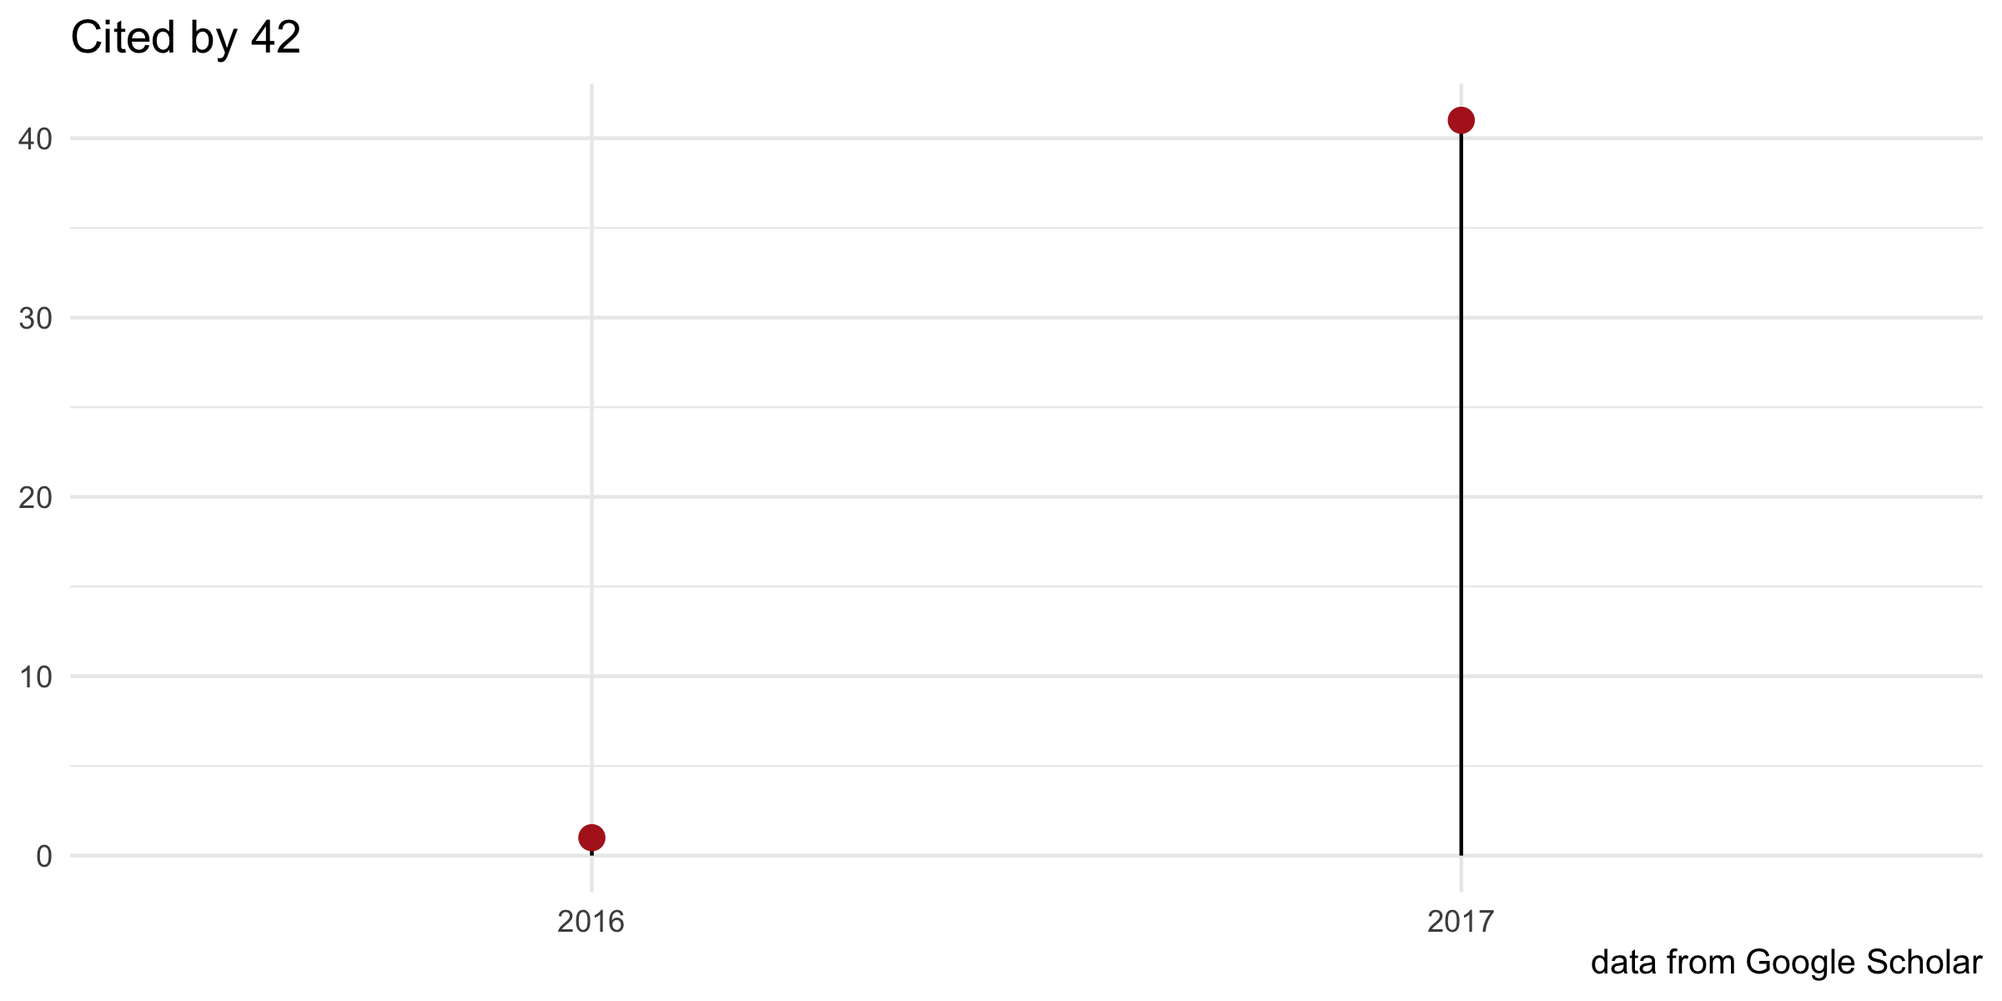
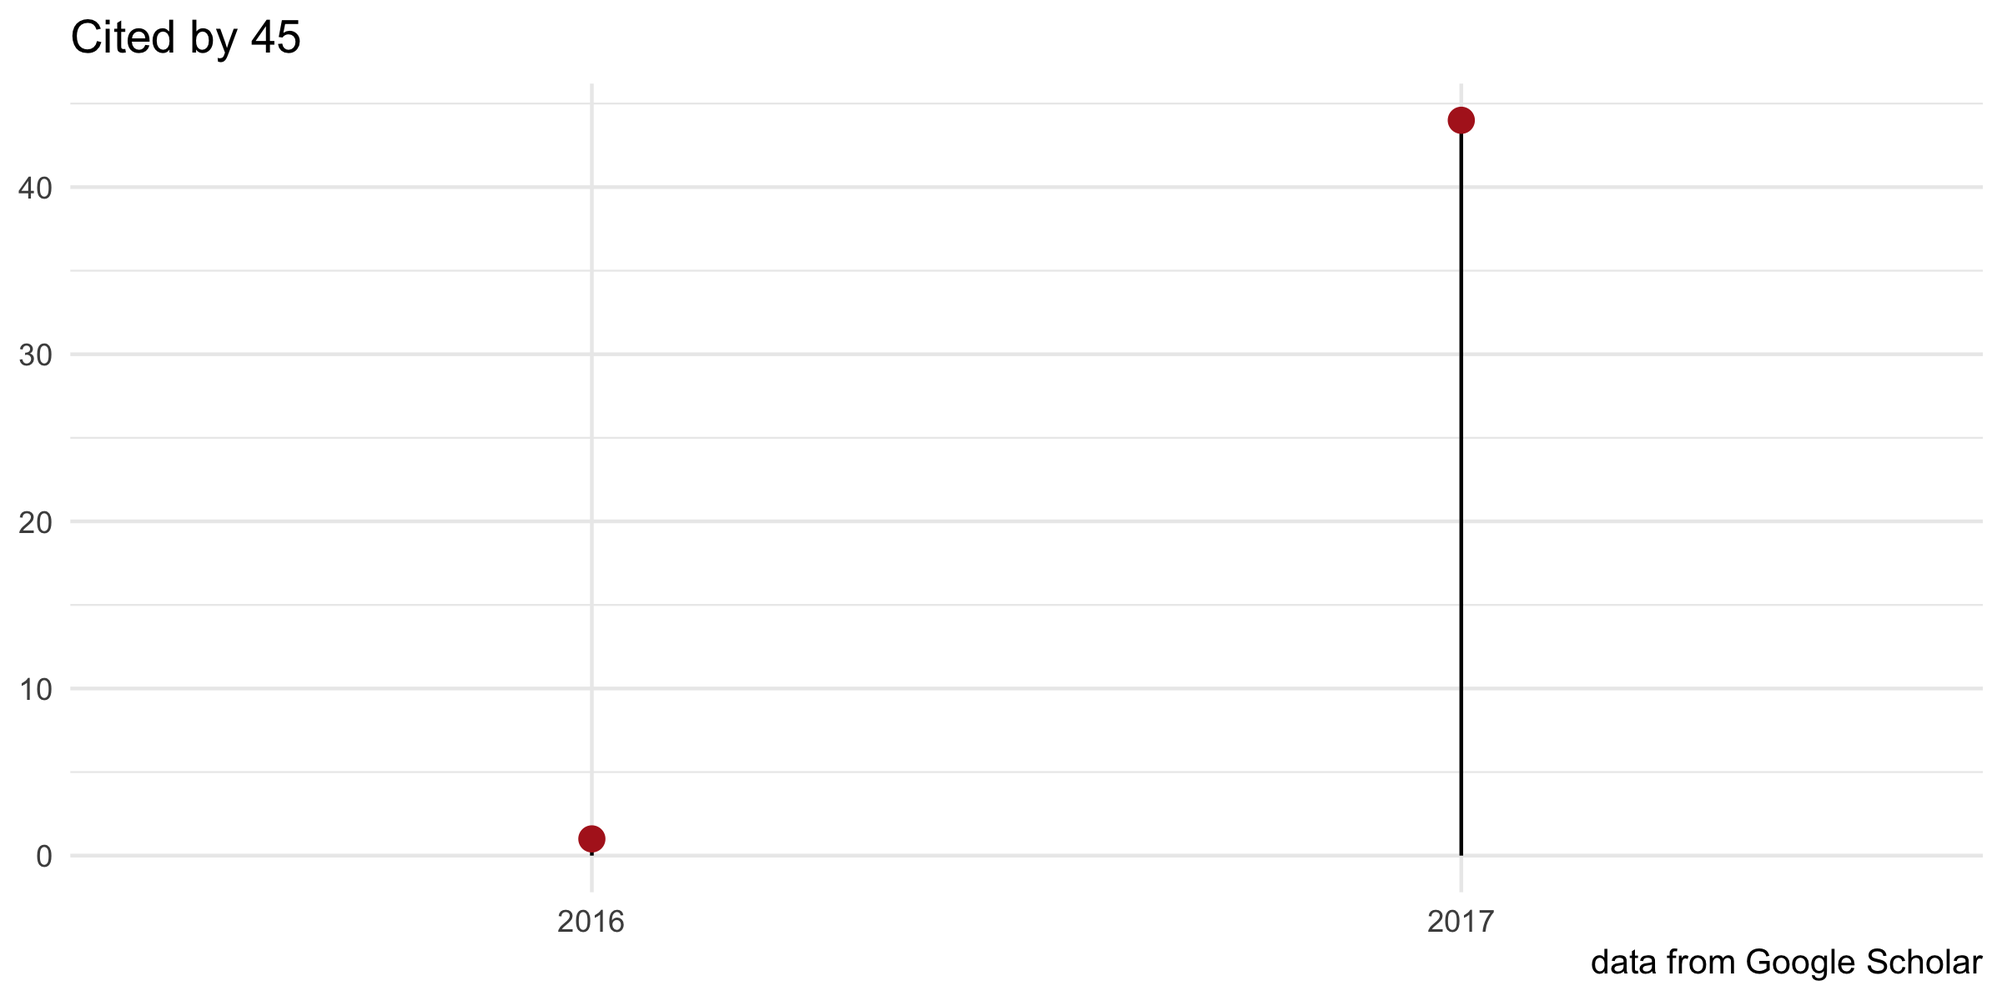
update docs

diff --git a/site_src/content/tweets/index.html b/site_src/content/tweets/index.html
@@ -8,4 +8,4 @@ weight: 50
 
 <p><link rel="stylesheet" href="https://guangchuangyu.github.io/css/font-awesome.min.css"></p>
 <p><font size="4"><strong>Leave me a message on <a href="https://twitter.com/hashtag/ggtree"><i class="fa fa-twitter fa-lg"></i></a></strong></font></p>
-<p>{{% tweet 920370392451178496 %}}{{% tweet 912971120198012929 %}}{{% tweet 907543915686793217 %}}{{% tweet 910671384069722112 %}}{{% tweet 903786057182957568 %}}{{% tweet 899635001247059969 %}}{{% tweet 898729425168080897 %}}{{% tweet 891144389715783680 %}}{{% tweet 883301626022375424 %}}{{% tweet 883246854695256064 %}}{{% tweet 877576023109390336 %}}{{% tweet 875594411584782337 %}}{{% tweet 871775262152810496 %}}{{% tweet 867408666852511744 %}}{{% tweet 857665638600507393 %}}{{% tweet 840181267542994944 %}}{{% tweet 839831849736232962 %}}{{% tweet 830023569887391744 %}}{{% tweet 829398997735313408 %}}{{% tweet 824264788456984576 %}}{{% tweet 822383911258890242 %}}{{% tweet 811666431452450816 %}}{{% tweet 811661275889549312 %}}{{% tweet 797041236867686400 %}}{{% tweet 797037016403820546 %}}{{% tweet 794278716859879424 %}}{{% tweet 831952966701678592 %}}{{% tweet 788751417746059264 %}}{{% tweet 693123105707986944 %}}{{% tweet 691762302492790788 %}}{{% tweet 687933344219312128 %}}{{% tweet 684411780412526592 %}}{{% tweet 665188011047563268 %}}{{% tweet 664040586001915904 %}}{{% tweet 639507420054749184 %}}{{% tweet 671673570259509248 %}}{{% tweet 667490462693912576 %}}{{% tweet 660278158663401473 %}}{{% tweet 641251456595685376 %}}{{% tweet 559734740488818688 %}}{{% tweet 559762891478667264 %}}{{% tweet 561514846291001344 %}}{{% tweet 559542705663905793 %}}{{% tweet 561056244782227456 %}}{{% tweet 664085841766195200 %}}{{% tweet 664431087683260416 %}}{{% tweet 667706456045694976 %}}{{% tweet 663937183791759360 %}}{{% tweet 663771499589861376 %}}{{% tweet 667433534756397057 %}}{{% tweet 640573716733169664 %}}{{% tweet 664407764001779712 %}}{{% tweet 630500659960254464 %}}{{% tweet 547497335412899840 %}}{{% tweet 610364467939913728 %}}</p>
+<p>{{% tweet "920370392451178496" %}}{{% tweet "912971120198012929" %}}{{% tweet "907543915686793217" %}}{{% tweet "910671384069722112" %}}{{% tweet "903786057182957568" %}}{{% tweet "899635001247059969" %}}{{% tweet "898729425168080897" %}}{{% tweet "891144389715783680" %}}{{% tweet "883301626022375424" %}}{{% tweet "883246854695256064" %}}{{% tweet "877576023109390336" %}}{{% tweet "875594411584782337" %}}{{% tweet "871775262152810496" %}}{{% tweet "867408666852511744" %}}{{% tweet "857665638600507393" %}}{{% tweet "840181267542994944" %}}{{% tweet "839831849736232962" %}}{{% tweet "830023569887391744" %}}{{% tweet "829398997735313408" %}}{{% tweet "824264788456984576" %}}{{% tweet "822383911258890242" %}}{{% tweet "811666431452450816" %}}{{% tweet "811661275889549312" %}}{{% tweet "797041236867686400" %}}{{% tweet "797037016403820546" %}}{{% tweet "794278716859879424" %}}{{% tweet "831952966701678592" %}}{{% tweet "788751417746059264" %}}{{% tweet "693123105707986944" %}}{{% tweet "691762302492790788" %}}{{% tweet "687933344219312128" %}}{{% tweet "684411780412526592" %}}{{% tweet "665188011047563268" %}}{{% tweet "664040586001915904" %}}{{% tweet "639507420054749184" %}}{{% tweet "671673570259509248" %}}{{% tweet "667490462693912576" %}}{{% tweet "660278158663401473" %}}{{% tweet "641251456595685376" %}}{{% tweet "559734740488818688" %}}{{% tweet "559762891478667264" %}}{{% tweet "561514846291001344" %}}{{% tweet "559542705663905793" %}}{{% tweet "561056244782227456" %}}{{% tweet "664085841766195200" %}}{{% tweet "664431087683260416" %}}{{% tweet "667706456045694976" %}}{{% tweet "663937183791759360" %}}{{% tweet "663771499589861376" %}}{{% tweet "667433534756397057" %}}{{% tweet "640573716733169664" %}}{{% tweet "664407764001779712" %}}{{% tweet "630500659960254464" %}}{{% tweet "547497335412899840" %}}{{% tweet "610364467939913728" %}}</p>

diff --git a/site_src/content/index.html b/site_src/content/index.html
@@ -9,7 +9,7 @@ weight: 1
 
 <p><link rel="stylesheet" href="https://guangchuangyu.github.io/css/font-awesome.min.css"> <link rel="stylesheet" href="https://guangchuangyu.github.io/css/academicons.min.css"></p>
 <p><img src="https://raw.githubusercontent.com/Bioconductor/BiocStickers/master/ggtree/ggtree.png" height="200" align="right" /></p>
-<p><a href="https://bioconductor.org/packages/ggtree"><img src="https://img.shields.io/badge/release%20version-1.10.0-blue.svg?style=flat" alt="releaseVersion" /></a> <a href="https://github.com/guangchuangyu/ggtree"><img src="https://img.shields.io/badge/devel%20version-1.9.4-blue.svg?style=flat" alt="develVersion" /></a> <a href="https://bioconductor.org/packages/stats/bioc/ggtree"><img src="https://img.shields.io/badge/downloads-20560/total-blue.svg?style=flat" alt="total" /></a> <a href="https://bioconductor.org/packages/stats/bioc/ggtree"><img src="https://img.shields.io/badge/downloads-986/month-blue.svg?style=flat" alt="month" /></a></p>
+<p><a href="https://bioconductor.org/packages/ggtree"><img src="https://img.shields.io/badge/release%20version-1.10.0-blue.svg?style=flat" alt="releaseVersion" /></a> <a href="https://github.com/guangchuangyu/ggtree"><img src="https://img.shields.io/badge/devel%20version-1.11.0-blue.svg?style=flat" alt="develVersion" /></a> <a href="https://bioconductor.org/packages/stats/bioc/ggtree"><img src="https://img.shields.io/badge/downloads-20978/total-blue.svg?style=flat" alt="total" /></a> <a href="https://bioconductor.org/packages/stats/bioc/ggtree"><img src="https://img.shields.io/badge/downloads-1156/month-blue.svg?style=flat" alt="month" /></a></p>
 <p>The <code>ggtree</code> package extending the <em>ggplot2</em> package. It based on grammar of graphics and takes all the good parts of <em>ggplot2</em>. <em>ggtree</em> is designed for not only viewing phylogenetic tree but also displaying annotation data on the tree. <em>ggtree</em> is released within the <a href="https://bioconductor.org/packages/ggtree/">Bioconductor</a> project and the source code is hosted on <a href="https://github.com/GuangchuangYu/ggtree"><i class="fa fa-github fa-lg"></i> GitHub</a>.</p>
 <div id="authors" class="section level2">
 <h2><i class="fa fa-user"></i> Authors</h2>
@@ -18,7 +18,7 @@ weight: 1
 <div id="citation" class="section level2">
 <h2><i class="fa fa-book"></i> Citation</h2>
 <p>Please cite the following article when using <code>ggtree</code>:</p>
-<p><a href="http://dx.doi.org/10.1111/2041-210X.12628"><img src="https://img.shields.io/badge/doi-10.1111/2041--210X.12628-blue.svg?style=flat" alt="doi" /></a> <a href="https://www.altmetric.com/details/10533079"><img src="https://img.shields.io/badge/Altmetric-338-blue.svg?style=flat" alt="Altmetric" /></a> <a href="https://scholar.google.com.hk/scholar?oi=bibs&amp;hl=en&amp;cites=7268358477862164627"><img src="https://img.shields.io/badge/cited%20by-42-blue.svg?style=flat" alt="citation" /></a></p>
+<p><a href="http://dx.doi.org/10.1111/2041-210X.12628"><img src="https://img.shields.io/badge/doi-10.1111/2041--210X.12628-blue.svg?style=flat" alt="doi" /></a> <a href="https://www.altmetric.com/details/10533079"><img src="https://img.shields.io/badge/Altmetric-337-blue.svg?style=flat" alt="Altmetric" /></a> <a href="https://scholar.google.com.hk/scholar?oi=bibs&amp;hl=en&amp;cites=7268358477862164627"><img src="https://img.shields.io/badge/cited%20by-45-blue.svg?style=flat" alt="citation" /></a></p>
 <p><strong>G Yu</strong>, DK Smith, H Zhu, Y Guan, TTY Lam<sup>*</sup>. ggtree: an R package for visualization and annotation of phylogenetic trees with their covariates and other associated data. <strong><em>Methods in Ecology and Evolution</em></strong>. 2017, 8(1):28-36.</p>
 </div>
 <div id="featured-articles" class="section level2">

diff --git a/docs/index.html b/docs/index.html
@@ -345,7 +345,7 @@
 
 				<p><link rel="stylesheet" href="https://guangchuangyu.github.io/css/font-awesome.min.css"> <link rel="stylesheet" href="https://guangchuangyu.github.io/css/academicons.min.css"></p>
 <p><img src="https://raw.githubusercontent.com/Bioconductor/BiocStickers/master/ggtree/ggtree.png" height="200" align="right" /></p>
-<p><a href="https://bioconductor.org/packages/ggtree"><img src="https://img.shields.io/badge/release%20version-1.10.0-blue.svg?style=flat" alt="releaseVersion" /></a> <a href="https://github.com/guangchuangyu/ggtree"><img src="https://img.shields.io/badge/devel%20version-1.9.4-blue.svg?style=flat" alt="develVersion" /></a> <a href="https://bioconductor.org/packages/stats/bioc/ggtree"><img src="https://img.shields.io/badge/downloads-20560/total-blue.svg?style=flat" alt="total" /></a> <a href="https://bioconductor.org/packages/stats/bioc/ggtree"><img src="https://img.shields.io/badge/downloads-986/month-blue.svg?style=flat" alt="month" /></a></p>
+<p><a href="https://bioconductor.org/packages/ggtree"><img src="https://img.shields.io/badge/release%20version-1.10.0-blue.svg?style=flat" alt="releaseVersion" /></a> <a href="https://github.com/guangchuangyu/ggtree"><img src="https://img.shields.io/badge/devel%20version-1.11.0-blue.svg?style=flat" alt="develVersion" /></a> <a href="https://bioconductor.org/packages/stats/bioc/ggtree"><img src="https://img.shields.io/badge/downloads-20978/total-blue.svg?style=flat" alt="total" /></a> <a href="https://bioconductor.org/packages/stats/bioc/ggtree"><img src="https://img.shields.io/badge/downloads-1156/month-blue.svg?style=flat" alt="month" /></a></p>
 <p>The <code>ggtree</code> package extending the <em>ggplot2</em> package. It based on grammar of graphics and takes all the good parts of <em>ggplot2</em>. <em>ggtree</em> is designed for not only viewing phylogenetic tree but also displaying annotation data on the tree. <em>ggtree</em> is released within the <a href="https://bioconductor.org/packages/ggtree/">Bioconductor</a> project and the source code is hosted on <a href="https://github.com/GuangchuangYu/ggtree"><i class="fa fa-github fa-lg"></i> GitHub</a>.</p>
 <div id="authors" class="section level2">
 <h2><i class="fa fa-user"></i> Authors</h2>
@@ -354,7 +354,7 @@
 <div id="citation" class="section level2">
 <h2><i class="fa fa-book"></i> Citation</h2>
 <p>Please cite the following article when using <code>ggtree</code>:</p>
-<p><a href="http://dx.doi.org/10.1111/2041-210X.12628"><img src="https://img.shields.io/badge/doi-10.1111/2041--210X.12628-blue.svg?style=flat" alt="doi" /></a> <a href="https://www.altmetric.com/details/10533079"><img src="https://img.shields.io/badge/Altmetric-338-blue.svg?style=flat" alt="Altmetric" /></a> <a href="https://scholar.google.com.hk/scholar?oi=bibs&amp;hl=en&amp;cites=7268358477862164627"><img src="https://img.shields.io/badge/cited%20by-42-blue.svg?style=flat" alt="citation" /></a></p>
+<p><a href="http://dx.doi.org/10.1111/2041-210X.12628"><img src="https://img.shields.io/badge/doi-10.1111/2041--210X.12628-blue.svg?style=flat" alt="doi" /></a> <a href="https://www.altmetric.com/details/10533079"><img src="https://img.shields.io/badge/Altmetric-337-blue.svg?style=flat" alt="Altmetric" /></a> <a href="https://scholar.google.com.hk/scholar?oi=bibs&amp;hl=en&amp;cites=7268358477862164627"><img src="https://img.shields.io/badge/cited%20by-45-blue.svg?style=flat" alt="citation" /></a></p>
 <p><strong>G Yu</strong>, DK Smith, H Zhu, Y Guan, TTY Lam<sup>*</sup>. ggtree: an R package for visualization and annotation of phylogenetic trees with their covariates and other associated data. <strong><em>Methods in Ecology and Evolution</em></strong>. 2017, 8(1):28-36.</p>
 </div>
 <div id="featured-articles" class="section level2">

diff --git a/docs/faq/index.html b/docs/faq/index.html
@@ -383,7 +383,16 @@ ggtree(raxml) %&lt;+% d + geom_tiplab(aes(label=label2))</code></pre>
 <p>For example, the tiplabels contains two parts, species name and accession number and we want to display species name in <em>italic</em>, we can use command like this:</p>
 <pre><code>ggtree(rtree(30)) + geom_tiplab(aes(subset=node==35), label=&#39;paste(italic(&quot;species name&quot;), &quot;accession number&quot;)&#39;, parse=T)</code></pre>
 <p>Another example for formating all tip labels:</p>
-<pre><code>ggtree(rtree(30)) + geom_tiplab(aes(label=paste0(&#39;bold(&#39;, label, &#39;)~italic(&#39;, node, &#39;)&#39;)), parse=TRUE)</code></pre>
+<pre class="r"><code>ggtree(rtree(30)) + geom_tiplab(aes(label=paste0(&#39;bold(&#39;, label, &#39;)~italic(&#39;, node, &#39;)&#39;)), parse=TRUE)</code></pre>
+<p>The <code>label</code> can be provided by a <code>data.frame</code> that contains related information of the taxa.</p>
+<pre class="r"><code>tr &lt;- read.tree(text = &quot;((a,(b,c)),d);&quot;)
+genus &lt;- c(&quot;Gorilla&quot;, &quot;Pan&quot;, &quot;Homo&quot;, &quot;Pongo&quot;)
+species &lt;- c(&quot;gorilla&quot;, &quot;spp.&quot;, &quot;sapiens&quot;, &quot;pygmaeus&quot;)
+geo &lt;- c(&quot;Africa&quot;, &quot;Africa&quot;, &quot;World&quot;, &quot;Asia&quot;)
+d &lt;- data.frame(label = tr$tip.label, genus = genus,
+                species = species, geo = geo)
+ggtree(tr) %&lt;+% d + xlim(NA, 5) +
+    geom_tiplab(aes(label=paste0(&#39;italic(&#39;, genus, &#39;)~bolditalic(&#39;, species, &#39;)~&#39;, geo)), parse=T)</code></pre>
 <p>see also <a href="https://groups.google.com/forum/?utm_medium=email&amp;utm_source=footer#!msg/bioc-ggtree/BA7g-npY1BM" class="uri">https://groups.google.com/forum/?utm_medium=email&amp;utm_source=footer#!msg/bioc-ggtree/BA7g-npY1BM</a>.</p>
 </div>
 <div id="avoid-overlapping-text-labels" class="section level2">

diff --git a/site_src/content/faq/index.html b/site_src/content/faq/index.html
@@ -47,7 +47,16 @@ ggtree(raxml) %&lt;+% d + geom_tiplab(aes(label=label2))</code></pre>
 <p>For example, the tiplabels contains two parts, species name and accession number and we want to display species name in <em>italic</em>, we can use command like this:</p>
 <pre><code>ggtree(rtree(30)) + geom_tiplab(aes(subset=node==35), label=&#39;paste(italic(&quot;species name&quot;), &quot;accession number&quot;)&#39;, parse=T)</code></pre>
 <p>Another example for formating all tip labels:</p>
-<pre><code>ggtree(rtree(30)) + geom_tiplab(aes(label=paste0(&#39;bold(&#39;, label, &#39;)~italic(&#39;, node, &#39;)&#39;)), parse=TRUE)</code></pre>
+<pre class="r"><code>ggtree(rtree(30)) + geom_tiplab(aes(label=paste0(&#39;bold(&#39;, label, &#39;)~italic(&#39;, node, &#39;)&#39;)), parse=TRUE)</code></pre>
+<p>The <code>label</code> can be provided by a <code>data.frame</code> that contains related information of the taxa.</p>
+<pre class="r"><code>tr &lt;- read.tree(text = &quot;((a,(b,c)),d);&quot;)
+genus &lt;- c(&quot;Gorilla&quot;, &quot;Pan&quot;, &quot;Homo&quot;, &quot;Pongo&quot;)
+species &lt;- c(&quot;gorilla&quot;, &quot;spp.&quot;, &quot;sapiens&quot;, &quot;pygmaeus&quot;)
+geo &lt;- c(&quot;Africa&quot;, &quot;Africa&quot;, &quot;World&quot;, &quot;Asia&quot;)
+d &lt;- data.frame(label = tr$tip.label, genus = genus,
+                species = species, geo = geo)
+ggtree(tr) %&lt;+% d + xlim(NA, 5) +
+    geom_tiplab(aes(label=paste0(&#39;italic(&#39;, genus, &#39;)~bolditalic(&#39;, species, &#39;)~&#39;, geo)), parse=T)</code></pre>
 <p>see also <a href="https://groups.google.com/forum/?utm_medium=email&amp;utm_source=footer#!msg/bioc-ggtree/BA7g-npY1BM" class="uri">https://groups.google.com/forum/?utm_medium=email&amp;utm_source=footer#!msg/bioc-ggtree/BA7g-npY1BM</a>.</p>
 </div>
 <div id="avoid-overlapping-text-labels" class="section level2">

diff --git a/README.md b/README.md
@@ -4,9 +4,9 @@ ggtree: an R package for visualization and annotation of phylogenetic trees with
 
 <img src="https://raw.githubusercontent.com/Bioconductor/BiocStickers/master/ggtree/ggtree.png" height="200" align="right" />
 
-[![releaseVersion](https://img.shields.io/badge/release%20version-1.10.0-green.svg?style=flat)](https://bioconductor.org/packages/ggtree) [![develVersion](https://img.shields.io/badge/devel%20version-1.11.0-green.svg?style=flat)](https://github.com/guangchuangyu/ggtree) [![Bioc](http://www.bioconductor.org/shields/years-in-bioc/ggtree.svg)](https://www.bioconductor.org/packages/devel/bioc/html/ggtree.html#since) [![total](https://img.shields.io/badge/downloads-20560/total-blue.svg?style=flat)](https://bioconductor.org/packages/stats/bioc/ggtree) [![month](https://img.shields.io/badge/downloads-986/month-blue.svg?style=flat)](https://bioconductor.org/packages/stats/bioc/ggtree)
+[![releaseVersion](https://img.shields.io/badge/release%20version-1.10.0-green.svg?style=flat)](https://bioconductor.org/packages/ggtree) [![develVersion](https://img.shields.io/badge/devel%20version-1.11.0-green.svg?style=flat)](https://github.com/guangchuangyu/ggtree) [![Bioc](http://www.bioconductor.org/shields/years-in-bioc/ggtree.svg)](https://www.bioconductor.org/packages/devel/bioc/html/ggtree.html#since) [![total](https://img.shields.io/badge/downloads-20978/total-blue.svg?style=flat)](https://bioconductor.org/packages/stats/bioc/ggtree) [![month](https://img.shields.io/badge/downloads-1156/month-blue.svg?style=flat)](https://bioconductor.org/packages/stats/bioc/ggtree)
 
-[![Project Status: Active - The project has reached a stable, usable state and is being actively developed.](http://www.repostatus.org/badges/latest/active.svg)](http://www.repostatus.org/#active) [![codecov](https://codecov.io/gh/GuangchuangYu/ggtree/branch/master/graph/badge.svg)](https://codecov.io/gh/GuangchuangYu/ggtree) [![Last-changedate](https://img.shields.io/badge/last%20change-2017--11--01-green.svg)](https://github.com/GuangchuangYu/ggtree/commits/master) [![GitHub forks](https://img.shields.io/github/forks/GuangchuangYu/ggtree.svg)](https://github.com/GuangchuangYu/ggtree/network) [![GitHub stars](https://img.shields.io/github/stars/GuangchuangYu/ggtree.svg)](https://github.com/GuangchuangYu/ggtree/stargazers) [![Awesome](https://cdn.rawgit.com/sindresorhus/awesome/d7305f38d29fed78fa85652e3a63e154dd8e8829/media/badge.svg)](https://awesome-r.com/#awesome-r-graphic-displays)
+[![Project Status: Active - The project has reached a stable, usable state and is being actively developed.](http://www.repostatus.org/badges/latest/active.svg)](http://www.repostatus.org/#active) [![codecov](https://codecov.io/gh/GuangchuangYu/ggtree/branch/master/graph/badge.svg)](https://codecov.io/gh/GuangchuangYu/ggtree) [![Last-changedate](https://img.shields.io/badge/last%20change-2017--11--08-green.svg)](https://github.com/GuangchuangYu/ggtree/commits/master) [![GitHub forks](https://img.shields.io/github/forks/GuangchuangYu/ggtree.svg)](https://github.com/GuangchuangYu/ggtree/network) [![GitHub stars](https://img.shields.io/github/stars/GuangchuangYu/ggtree.svg)](https://github.com/GuangchuangYu/ggtree/stargazers) [![Awesome](https://cdn.rawgit.com/sindresorhus/awesome/d7305f38d29fed78fa85652e3a63e154dd8e8829/media/badge.svg)](https://awesome-r.com/#awesome-r-graphic-displays)
 
 [![platform](http://www.bioconductor.org/shields/availability/devel/ggtree.svg)](https://www.bioconductor.org/packages/devel/bioc/html/ggtree.html#archives) [![Build Status](http://www.bioconductor.org/shields/build/devel/bioc/ggtree.svg)](https://bioconductor.org/checkResults/devel/bioc-LATEST/ggtree/) [![Linux/Mac Travis Build Status](https://img.shields.io/travis/GuangchuangYu/ggtree/master.svg?label=Mac%20OSX%20%26%20Linux)](https://travis-ci.org/GuangchuangYu/ggtree) [![AppVeyor Build Status](https://img.shields.io/appveyor/ci/Guangchuangyu/ggtree/master.svg?label=Windows)](https://ci.appveyor.com/project/GuangchuangYu/ggtree) [![Backers on Open Collective](https://opencollective.com/ggtree/backers/badge.svg)](#backers) [![Sponsors on Open Collective](https://opencollective.com/ggtree/sponsors/badge.svg)](#sponsors)
 
@@ -27,7 +27,7 @@ Please cite the following article when using `ggtree`:
 
 **G Yu**, DK Smith, H Zhu, Y Guan, TTY Lam<sup>\*</sup>. ggtree: an R package for visualization and annotation of phylogenetic trees with their covariates and other associated data. ***Methods in Ecology and Evolution***. 2017, 8(1):28-36.
 
-[![doi](https://img.shields.io/badge/doi-10.1111/2041--210X.12628-green.svg?style=flat)](http://dx.doi.org/10.1111/2041-210X.12628) [![Altmetric](https://img.shields.io/badge/Altmetric-338-green.svg?style=flat)](https://www.altmetric.com/details/10533079) [![citation](https://img.shields.io/badge/cited%20by-42-green.svg?style=flat)](https://scholar.google.com.hk/scholar?oi=bibs&hl=en&cites=7268358477862164627)
+[![doi](https://img.shields.io/badge/doi-10.1111/2041--210X.12628-green.svg?style=flat)](http://dx.doi.org/10.1111/2041-210X.12628) [![Altmetric](https://img.shields.io/badge/Altmetric-337-green.svg?style=flat)](https://www.altmetric.com/details/10533079) [![citation](https://img.shields.io/badge/cited%20by-45-green.svg?style=flat)](https://scholar.google.com.hk/scholar?oi=bibs&hl=en&cites=7268358477862164627)
 
 ------------------------------------------------------------------------
 
@@ -37,7 +37,7 @@ Please cite the following article when using `ggtree`:
 
 ### Download stats
 
-[![download](http://www.bioconductor.org/shields/downloads/ggtree.svg)](https://bioconductor.org/packages/stats/bioc/ggtree) [![total](https://img.shields.io/badge/downloads-20560/total-blue.svg?style=flat)](https://bioconductor.org/packages/stats/bioc/ggtree) [![month](https://img.shields.io/badge/downloads-986/month-blue.svg?style=flat)](https://bioconductor.org/packages/stats/bioc/ggtree)
+[![download](http://www.bioconductor.org/shields/downloads/ggtree.svg)](https://bioconductor.org/packages/stats/bioc/ggtree) [![total](https://img.shields.io/badge/downloads-20978/total-blue.svg?style=flat)](https://bioconductor.org/packages/stats/bioc/ggtree) [![month](https://img.shields.io/badge/downloads-1156/month-blue.svg?style=flat)](https://bioconductor.org/packages/stats/bioc/ggtree)
 
 <img src="docs/images/dlstats.png" width="890"/>
 
